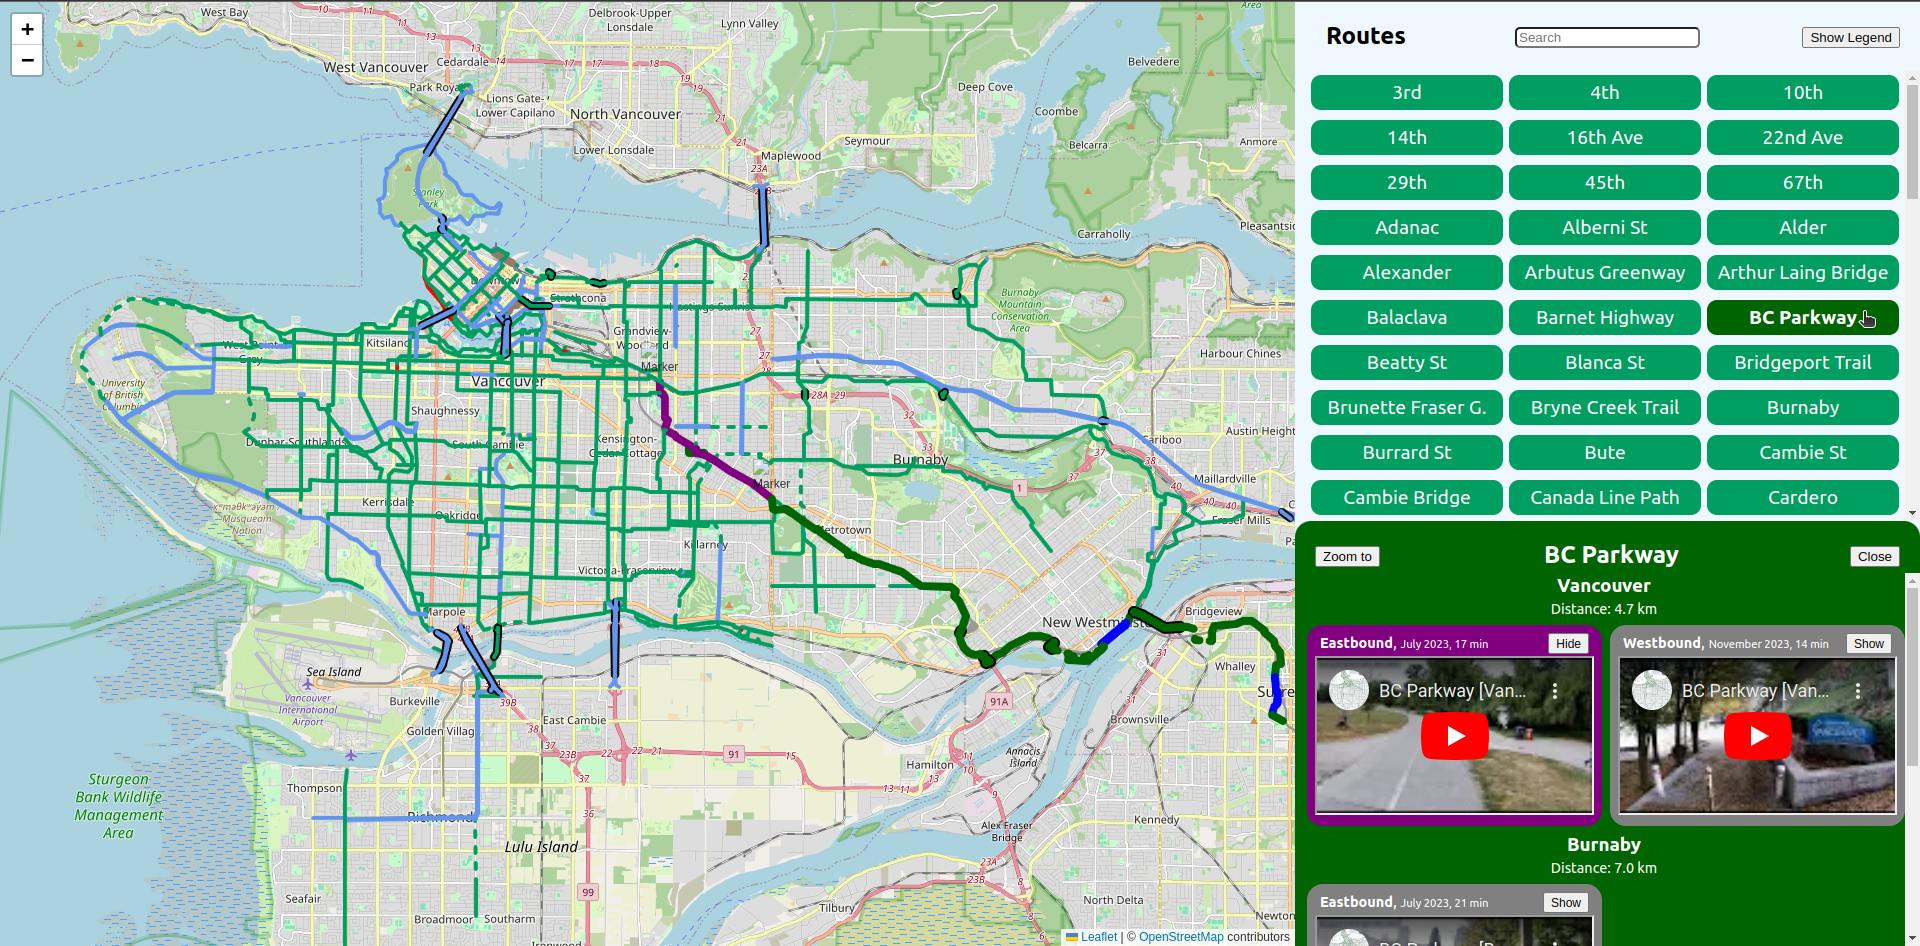
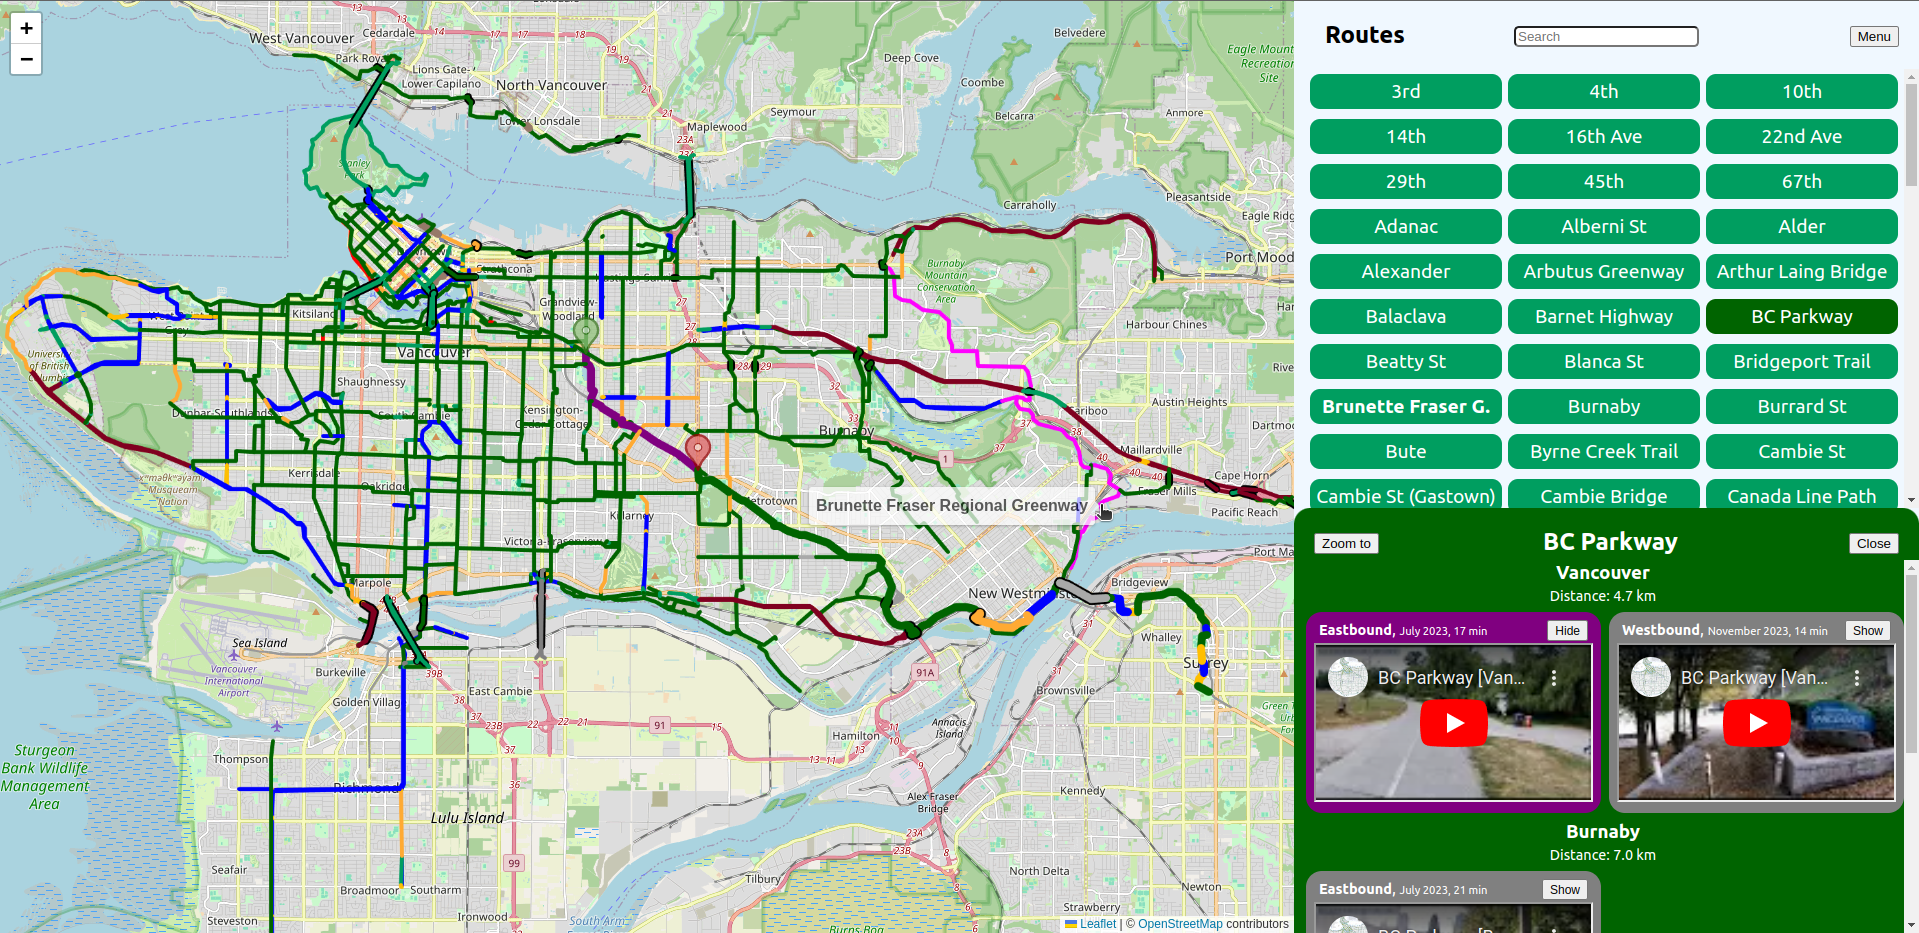
Update readme, add internal list of future routes

diff --git a/src/data/routes/index.js b/src/data/routes/index.js
@@ -2,6 +2,16 @@ import { VIDEOS } from "../videos";
 
 // !!! handle non-routes, allow them to be previewed sometimes?
 
+// Potential future additions
+// Burnaby: north-south; royal oak; burris/oakland; southeast; victory; sfu; broadway; joe sakic; big bend path; beresford; cariboo; willingdon overpass lane
+// UBC: east mall; west mall; imperial trail; acadia; stadium; toronto/agronomy; thunderbird; osoyoos+
+// Richmond: no. 3; williams; river pkwy; minoru; francis (shell); ash; westminster hwy; no. 6 paths; lynas; no. 2 path; west-most n-s; dyke
+// YVR: ferguson; russ baker; sea island/bridgeport bridges; paths
+// New Westminster: queensborough bridge, london, 7th, 5th, carnarvon
+// North Vancouver: grand blvd; cotton/main/lower/esplanade/1st; 4th; keith; capilano; dollarton; mt seymour
+// West Vancouver: marine dr; mathers+; old train; hwy; keith;
+// Surrey: scott rd; alex fraser; timbers; fraser hwy;
+
 export const ROUTES = {
   third: {
     name: "3rd",

diff --git a/README.md b/README.md
@@ -12,17 +12,18 @@ On GitHub Pages at [https://kr-matthews.github.io/bike-route-map](https://kr-mat
 
 ### Current
 
-- View bike routes on zoom-able map.
-- Distinguish between certain types of bike route (standard, uncomfortable, elevated, underground, one-way, etc.).
-- Select a route.
-- View videos of selected route via embedded YouTube video (for most routes).
+- View named bike routes on zoom-able map.
+- Distinguish between types of bike infrastructure (comfortable, painted lane, shared lane with cars, highway shoulder, narrow sidewalk).
+- Bridges and tunnels/undercover routes visually distinct.
+- Select a route to see information and embedded YouTube video (if available).
 - Explanatory legend.
 
 ### Potential Future
 
 See [enhancements](https://github.com/kr-matthews/bike-route-map/issues?q=is%3Aissue+is%3Aopen+label%3Aenhancement) on GitHub.
 
-- More precise information about each segment (e.g. quiet local street, painted lane, physically separated lane, shared use path with pedestrians, etc.).
+- Ability to filter what types of infrastructure are shown (that is, filter to only show comfortable segments).
+- More routes in surrounding cities/areas.
 
 ## Original Intentions
 
@@ -41,3 +42,5 @@ See the [issues](https://github.com/kr-matthews/bike-route-map/issues) on GitHub
 - UI is far from perfect, and potentially unintuitive in places.
 - Data is all hard-coded into the frontend, rather than utilizing some sort of database.
 - There are 0 tests.
+- Unclear when an area has additional bike routes but they just haven't been added to this map (yet).
+- Data can easily get out-of-date.
